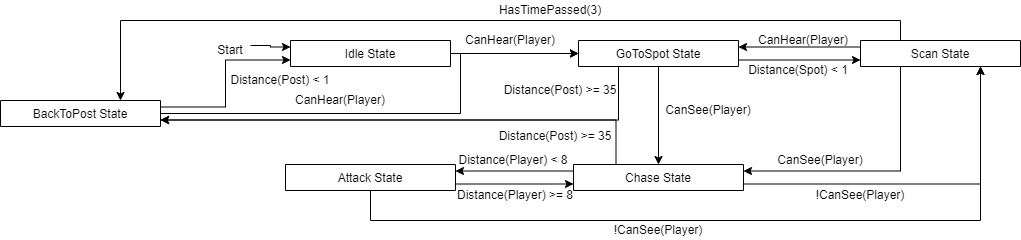
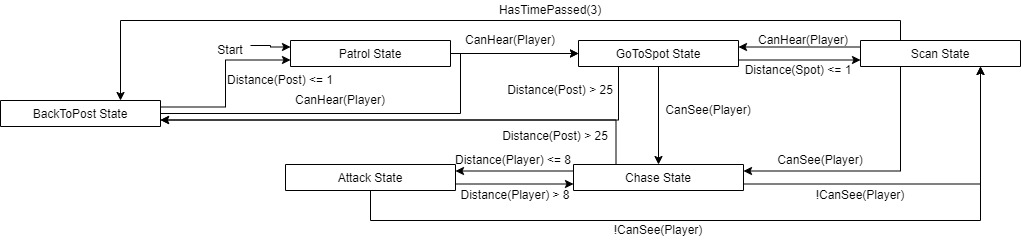
Problems with AISmart need fixing

diff --git a/Assets/Scripts/AIBehaviors/AISmart.cs b/Assets/Scripts/AIBehaviors/AISmart.cs
@@ -1,0 +1,167 @@
+using System.Collections;
+using System.Collections.Generic;
+using UnityEngine;
+
+public class AISmart : AIController
+{
+    // Start is called before the first frame update
+    public override void Start()
+    {
+        base.Start();
+    }
+
+    // Update is called once per frame
+    public override void Update()
+    {
+        base.Update();
+    }
+
+    public override void MakeDecisions()
+    {
+        switch (currentState)
+        {
+            case AIState.Idle:
+                // Do that state's behavior
+                DoIdleState();
+
+                // Check for transitions
+                foreach (Controller playerController in GameManager.instance.players)
+                {
+                    if (playerController.pawn != null && CanHear(playerController.pawn.gameObject))
+                    {
+                        heardPosition = playerController.pawn.transform.position;
+                        ChangeAIState(AIState.GoToSpot);
+                        return;
+                    }
+                }
+                break;
+            case AIState.Attack:
+                // Do that state's behavior
+                DoAttackState();
+
+                // Check for transitions
+                if (Vector3.SqrMagnitude(target.transform.position - transform.position) > attackRange)
+                {
+                    ChangeAIState(AIState.Chase);
+                    return;
+                }
+                if (!CanSee(target))
+                {
+                    target = null;
+                    ChangeAIState(AIState.Scan);
+                    return;
+                }
+                break;
+            case AIState.Chase:
+                // Do that state's behavior
+                DoChaseState();
+
+                // Check for transitions
+                if (Vector3.SqrMagnitude(target.transform.position - transform.position) <= attackRange)
+                {
+                    ChangeAIState(AIState.Attack);
+                    return;
+                }
+                if (!CanSee(target))
+                {
+                    target = null;
+                    ChangeAIState(AIState.Scan);
+                    return;
+                }
+                if (Vector3.SqrMagnitude(post.position - transform.position) > 25f)
+                {
+                    ChangeAIState(AIState.BackToPost);
+                    return;
+                }
+                break;
+            case AIState.Flee:
+                // Do that state's behavior
+                DoFleeState();
+
+                // Check for transitions
+
+                break;
+            case AIState.Patrol:
+                // Do that state's behavior
+                DoPatrolState();
+
+                // Check for transitions
+
+                break;
+            case AIState.Scan:
+                // Do that state's behavior
+                DoScanState();
+
+                // Check for transitions
+                foreach (Controller playerController in GameManager.instance.players)
+                {
+                    if (playerController.pawn != null && CanSee(playerController.pawn.gameObject))
+                    {
+                        target = playerController.pawn.gameObject;
+                        ChangeAIState(AIState.Chase);
+                        return;
+                    }
+                    if (playerController.pawn != null && CanHear(playerController.pawn.gameObject))
+                    {
+                        heardPosition = playerController.pawn.transform.position;
+                        ChangeAIState(AIState.GoToSpot);
+                        return;
+                    }
+                }
+                if (Time.time - lastStateChangeTime > 3f)
+                {
+                    ChangeAIState(AIState.BackToPost);
+                    return;
+                }
+                break;
+            case AIState.BackToPost:
+                // Do that state's behavior
+                DoBackToPostState();
+
+                // Check for transitions
+                foreach (Controller playerController in GameManager.instance.players)
+                {
+                    if (playerController.pawn != null && CanHear(playerController.pawn.gameObject))
+                    {
+                        heardPosition = playerController.pawn.transform.position;
+                        ChangeAIState(AIState.GoToSpot);
+                        return;
+                    }
+                }
+                if (Vector3.SqrMagnitude(post.position - transform.position) <= 1f)
+                {
+                    ChangeAIState(AIState.Idle);
+                    return;
+                }
+                break;
+            case AIState.GoToSpot:
+                // Do that state's behavior
+                DoGoToSpotState();
+
+                // Check for transitions
+                foreach (Controller playerController in GameManager.instance.players)
+                {
+                    if (playerController.pawn != null && CanSee(playerController.pawn.gameObject))
+                    {
+                        target = playerController.pawn.gameObject;
+                        ChangeAIState(AIState.Chase);
+                        return;
+                    }
+                }
+                if (Vector3.SqrMagnitude(post.position - transform.position) > 25f)
+                {
+                    ChangeAIState(AIState.BackToPost);
+                    return;
+                }
+                if (Vector3.SqrMagnitude(heardPosition - transform.position) <= 1f)
+                {
+                    ChangeAIState(AIState.Scan);
+                    return;
+                }
+                break;
+            default:
+                Debug.LogWarning("AI Controller doesn't have that state implemented");
+                break;
+        }
+    }
+}

diff --git a/Assets/Scripts/AIBehaviors/AILazy.cs b/Assets/Scripts/AIBehaviors/AILazy.cs
@@ -74,7 +74,7 @@ public class AILazy : AIController
                 // Check for transitions
                 foreach (Controller playerController in GameManager.instance.players)
                 {
-                    if (playerController.pawn != null && CanSee(playerController.gameObject))
+                    if (playerController.pawn != null && CanSee(playerController.pawn.gameObject))
                     {
                         target = playerController.gameObject;
                         ChangeAIState(AIState.Attack);

diff --git a/Assets/Scripts/EditorScripts/AILazyEditor.cs b/Assets/Scripts/EditorScripts/AILazyEditor.cs
@@ -20,7 +20,7 @@ public class AILazyEditor : Editor
         Handles.DrawLine(fov.transform.position, fov.transform.position + viewAngle01 * fov.viewDistance);
         Handles.DrawLine(fov.transform.position, fov.transform.position + viewAngle02 * fov.viewDistance);
 
-        if (fov.seeTarget)
+        if (fov.seeTarget && fov.target != null)
         {
             Handles.color = Color.green;
             Handles.DrawLine(fov.transform.position, fov.target.transform.position);

diff --git a/Assets/Scripts/AIBehaviors/AIController.cs b/Assets/Scripts/AIBehaviors/AIController.cs
@@ -29,7 +29,7 @@ public abstract class AIController : Controller
     private List<float> steeringAmounts;
     private float totalSteeringAmount;
     public float minSteerDistance = 2;
-    public float maxSteerDistance = 4;
+    public float maxSteerDistance = 3;
     public GameObject obstacleCheckPrefab;
     private GameObject obstacleCheck;
     private ObstacleCheck obstacleCheckScript;

diff --git a/Assets/Scripts/EditorScripts/AISmartEditor.cs b/Assets/Scripts/EditorScripts/AISmartEditor.cs
@@ -4,8 +4,8 @@ using UnityEngine;
 #if UNITY_EDITOR
 using UnityEditor;
 
-[CustomEditor(typeof(AIAggressive))]
-public class AIAggressiveEditor : Editor
+[CustomEditor(typeof(AISmart))]
+public class AISmartEditor : Editor
 {
     private void OnSceneGUI()
     {
